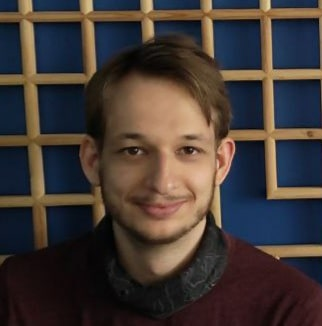
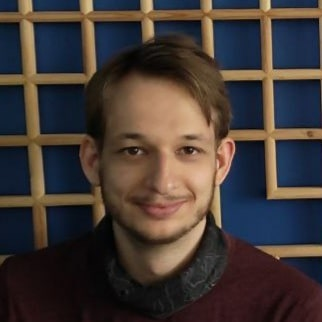
Fix author portrait CLS issues

diff --git a/public/css/base.css b/public/css/base.css
@@ -517,7 +517,6 @@ details[open] summary::before {
 
 .author-portrait {
   border-radius: 100%;
-  width: 150px;
   margin: 1em auto;
 }
 

diff --git a/content/about.md b/content/about.md
@@ -38,7 +38,7 @@ The side notes are based on [Tufte CSS](https://edwardtufte.github.io/tufte-css/
 
 My name is Arthur. I'm {% authorAge %} years old. I was born and live in France, so French is my mother tongue, but I'm fluent in English thanks to my Canadian mother. Since I enjoy writing in both languages, I chose the latter to have a broader reach.
 
-<img class="author-portrait" src="/img/portrait.jpg" alt="author portrait">
+<img class="author-portrait" src="/img/portrait.jpg" alt="author portrait" width="150" height="150">
 
 I do all the writing, designing, and programming on this website.
 
